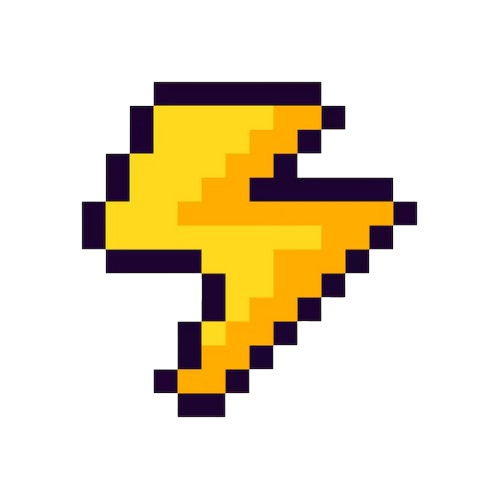
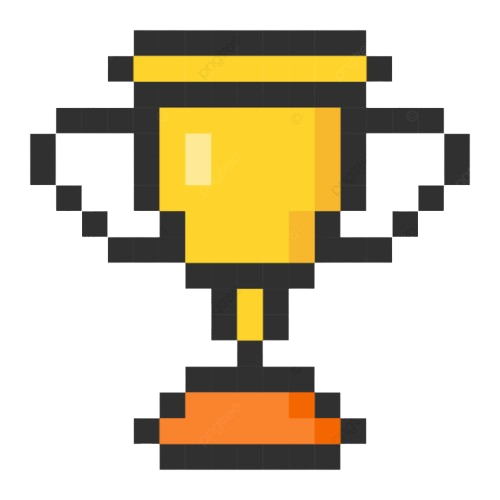
feature/ added maze path blocs, wallpapers

diff --git a/src/renderer/renderer.py b/src/renderer/renderer.py
@@ -10,6 +10,12 @@ class Renderer:
         self.maze_bloc_texture = arcade.load_texture(
             "assets/maze/bloc.png"
         )  # Load bloc texture
+        sheet = arcade.load_spritesheet("assets/maze/tilemap_packed.png")
+        self.textures = sheet.get_texture_grid(
+            size=(16, 16),
+            columns=12,
+            count=16*16,
+        )
         self.logo_title_texture = arcade.load_texture(
             "assets/misc/logo-title.png"
         )  # Load logo title
@@ -23,17 +29,15 @@ class Renderer:
         self.fps = 0  # To calculate FPS
         self.maze_sprite_list: arcade.SpriteList[
             arcade.Sprite] = arcade.SpriteList()
+        self.path_sprite_list: arcade.SpriteList[
+            arcade.Sprite] = arcade.SpriteList()
+        self.attributes_sprites: list[arcade.Rect] = []
         self._cached_window_size: tuple[int, int] = (-1, -1)
 
-    def render_game(self, maze: NDArray[Any], lifes: int = 42) -> None:
+    def render_game(self, maze: NDArray[Any], path: NDArray[Any], lifes: int = 42) -> None:
         """Draws the game to the screen"""
         window = arcade.get_window()
         tile_size = self.get_tile_size(maze, window)
-
-        HUD_x = int(
-            self.calculate_maze_dimensions(
-                maze)[0] * tile_size + window.width / 2
-        )
 
         # Draw background
         bg_rect = self.get_background(window)
@@ -45,7 +49,7 @@ class Renderer:
         )
 
         # Draw maze
-        self.maze_sprite_list = self.build_maze_walls(maze, tile_size, window)
+        self.maze_sprite_list = self.build_maze_walls(maze, path, tile_size, window)
         self.maze_sprite_list.draw()
 
         # Draw logo
@@ -59,7 +63,7 @@ class Renderer:
 
         # Draw XP
         self.draw_attribute(window, self.xp_texture,
-                            self.logo.x + self.logo.width / 2 + window.width * 0.11,
+                            self.attributes_sprites[-1].x + 150,
                             self.logo.y, 99)
 
     def draw_attribute(
@@ -74,31 +78,27 @@ class Renderer:
             window, x, y, 
         )
         arcade.draw_texture_rect(icon, placeholder)
-        text_x = x
         text_y = y
         arcade.draw_text(
             value,
-            text_x + 30,
+            placeholder.x + placeholder.width / 2,
             text_y - (24 / 2),
             arcade.color.WHITE,
             24,
             font_name="Early GameBoy",
         )
+        self.attributes_sprites.append(placeholder)
 
     def create_attribute_placeholder(
         self, window: arcade.Window, x: int, y: int, added_width: float = 0
     ) -> arcade.Rect:
         """Creates a layer that displays the lifes of the player"""
         resize_factor = 0.05
-        width = self.logo_title_texture.width * (
-            (window.height * resize_factor) / self.logo_title_texture.height
-        )
+        width = window.height * resize_factor
         rect = arcade.Rect(
             x=x,
             y=y,
-            width=(self.logo_title_texture.width)
-            / (self.logo_title_texture.height / (
-                window.height * resize_factor)),
+            width=width,
             height=window.height * resize_factor,
             left=0,
             right=0,
@@ -131,7 +131,7 @@ class Renderer:
         return (int(x / 2), int(y / 2))
 
     def build_maze_walls(
-        self, walls: NDArray[Any], tile_size: int, window: arcade.Window
+        self, walls: NDArray[Any], path: NDArray[Any], tile_size: int, window: arcade.Window
     ) -> arcade.SpriteList[arcade.Sprite]:
         """Returns a list of sprites corresponding to each bloc composing the
         given maze.
@@ -143,27 +143,35 @@ class Renderer:
         if self._cached_window_size == window.get_size():
             return self.maze_sprite_list
         maze_dimensions = self.calculate_maze_dimensions(walls)
-        xs = (
-            walls[:, 0] * tile_size
-            + window.width / 2
-            - (tile_size * 2 * maze_dimensions[0]) / 2
-        ).astype(int)
-        ys = (
-            walls[:, 1] * tile_size
-            + window.height / 2
-            - (tile_size * 2 * maze_dimensions[1]) / 2
-        ).astype(int)
+        
         self.maze_sprite_list = arcade.SpriteList()
-
-        for x, y in zip(xs, ys):
-            bloc = arcade.Sprite(self.maze_bloc_texture, 1, x, y)
-            bloc.width = tile_size
-            bloc.height = tile_size
-            self.maze_sprite_list.append(bloc)
+        self.save_blocs(self.textures[0], walls, tile_size, window, maze_dimensions)
+        self.save_blocs(self.textures[48], path, tile_size, window, maze_dimensions)
 
         self._cached_window_size = window.get_size()
 
         return self.maze_sprite_list
+
+    def save_blocs(self, texture: arcade.Texture, coords: NDArray[Any],
+                   tile_size: int, window: arcade.Window,
+                   maze_dimensions: tuple[int, int]) -> None:
+        xs = (
+            coords[:, 0] * tile_size
+            + window.width / 2
+            - (tile_size * 2 * maze_dimensions[0]) / 2
+        ).astype(int)
+        ys = (
+            coords[:, 1] * tile_size
+            + window.height / 2
+            - (tile_size * 2 * maze_dimensions[1]) / 2
+        ).astype(int)
+
+        for x, y in zip(xs, ys):
+            bloc = arcade.Sprite(texture, 1, x, y)
+            bloc.width = tile_size
+            bloc.height = tile_size
+            self.maze_sprite_list.append(bloc)
+
 
     def get_tile_size(self, maze: NDArray[Any], window: arcade.Window) -> int:
         """Return an adapted tile size for the window size"""

diff --git a/src/game_engine/game_view.py b/src/game_engine/game_view.py
@@ -50,10 +50,10 @@ class GameView(arcade.View):
 
         # Render game from Rendere
         walls, paths, seed = self.maze_list[0]
-        self.renderer.render_game(walls)
+        self.renderer.render_game(walls, paths)
 
         fps_text = f"FPS: {int(self.fps)}"
-        arcade.draw_text(fps_text, 10, 10, arcade.color.WHITE, 18)
+        arcade.draw_text(fps_text, 10, self.window.height - 10 - 18, arcade.color.WHITE, 18, font_name="Early GameBoy")
 
         return None
 

diff --git a/src/game_engine/menu_view.py b/src/game_engine/menu_view.py
@@ -22,7 +22,7 @@ class MenuView(arcade.View):
         # Load background
         try:
             self.background = arcade.load_texture(
-                "assets/background/background_1.jpg")
+                "assets/background/background_2.png")
         except (FileNotFoundError, PermissionError):
             raise NotImplementedError("NOT IMPLEMENTED : Missing background")
 